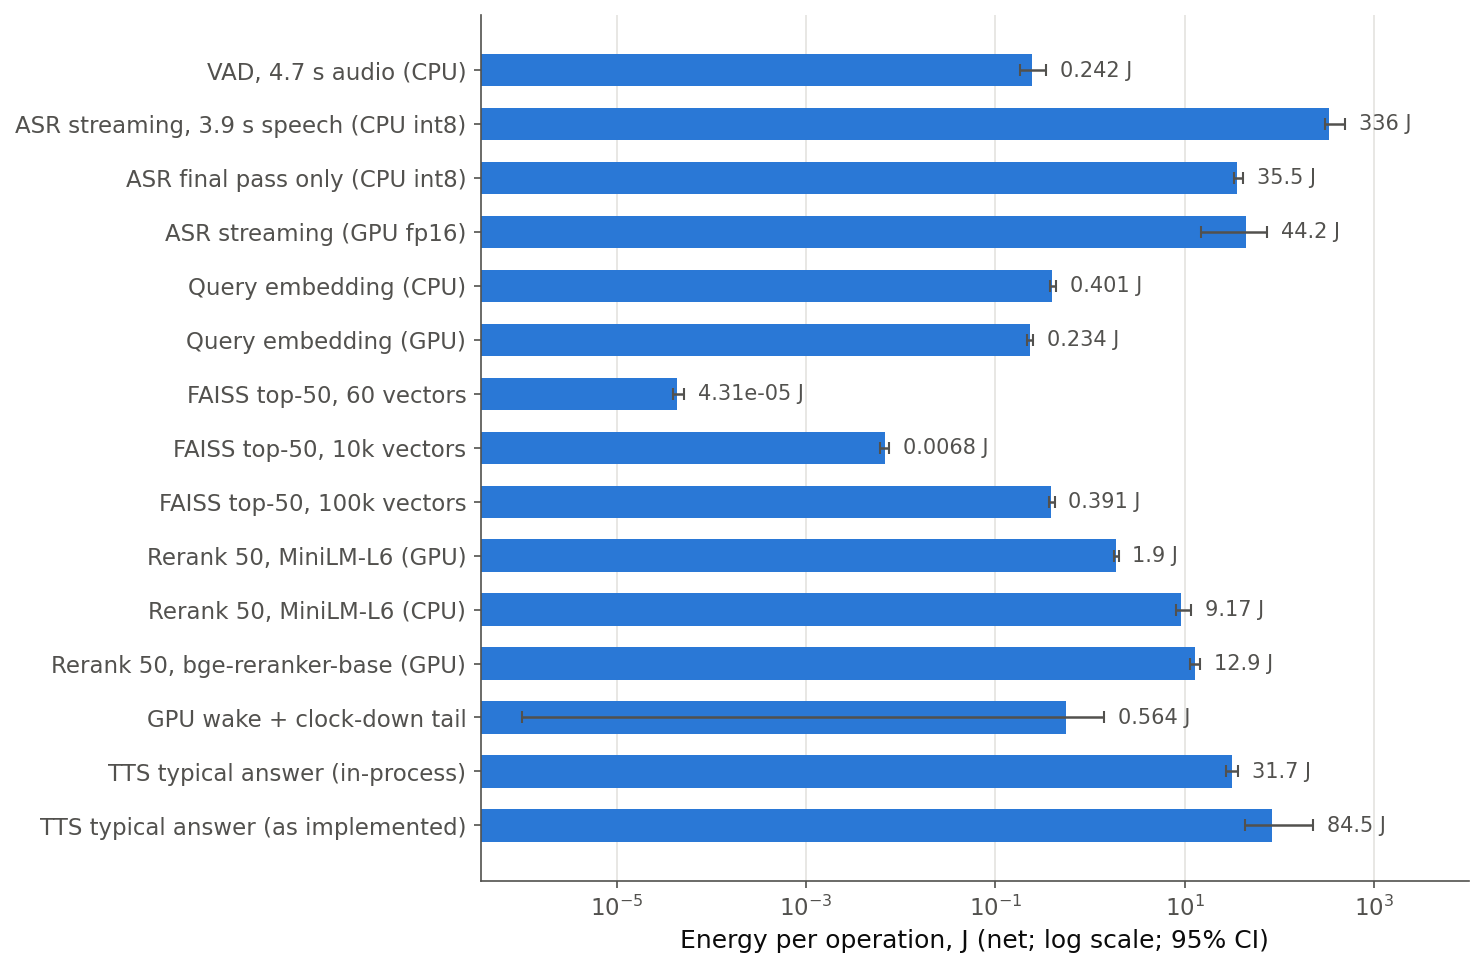
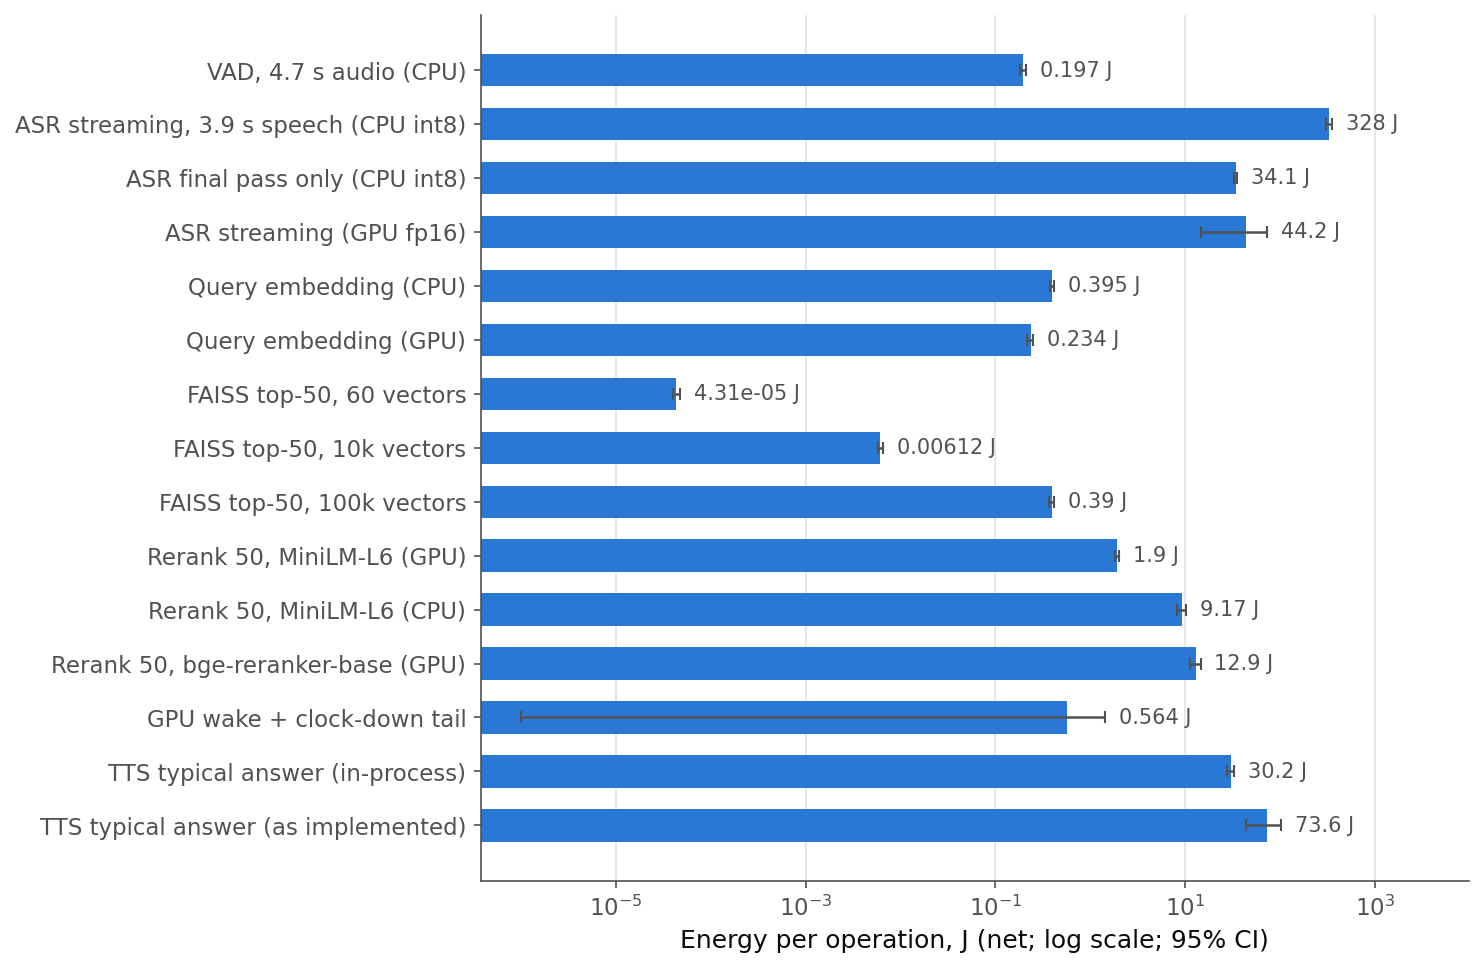
energy: stage figure excludes GPU noise for CPU-only stages

diff --git a/energy/make_figures.py b/energy/make_figures.py
@@ -54,11 +54,14 @@ STAGE_LABELS = [
 ]
 
 
-def stage_central(s):
+def stage_central(s, name=""):
+    """Central and 95% CI ends; CPU-only stages carry no GPU term (on the
+    shared host their GPU 'net' is other workloads' noise; see fit_params)."""
     if "cpu_attr_j" not in s:  # gpu_wake_tail
         g = s["gpu_net_j"]
         return g["mean"], g["lo"], g["hi"]
-    g = s["gpu_net_j"]
+    from energy.fit_params import is_cpu_only
+    g = {"mean": 0.0, "lo": 0.0, "hi": 0.0} if is_cpu_only(name) else s["gpu_net_j"]
     a = s["cpu_attr_j"]
     gm = max(g["mean"] or 0, 0)
     c = (a["mean"] or 0) + gm
@@ -69,7 +72,7 @@ def stage_central(s):
 
 def fig_stages(stages):
     S = stages["stages"]
-    rows = [(lab, *stage_central(S[k])) for k, lab in STAGE_LABELS if k in S]
+    rows = [(lab, *stage_central(S[k], k)) for k, lab in STAGE_LABELS if k in S]
     rows = rows[::-1]
     fig, ax = plt.subplots(figsize=(8.5, 0.42 * len(rows) + 1.2))
     y = np.arange(len(rows))
